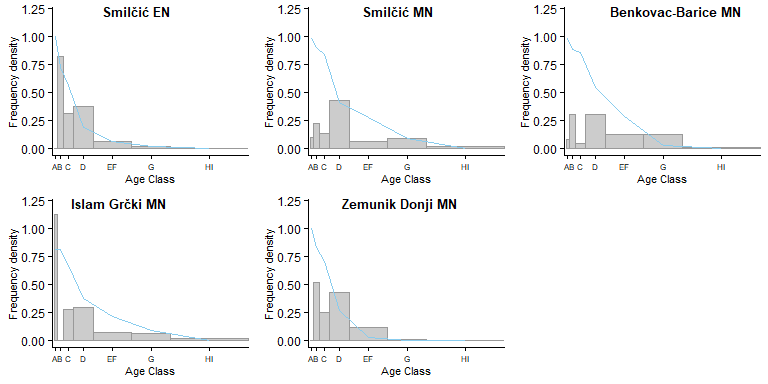
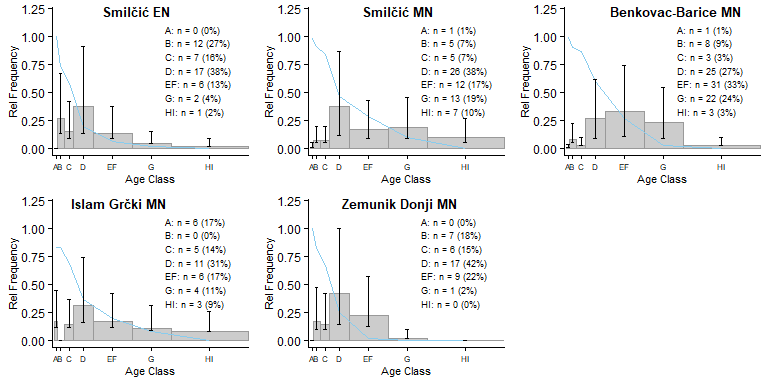
CI in mortality plot

diff --git a/README.md b/README.md
@@ -582,7 +582,7 @@ listpar = lapply(param.props, function(p) {
 ```
 
     ##    user  system elapsed 
-    ##   33.93    0.56   35.90
+    ##   31.69    0.46   36.62
 
 ``` r
 #-- save stochastic environment to replicate results
